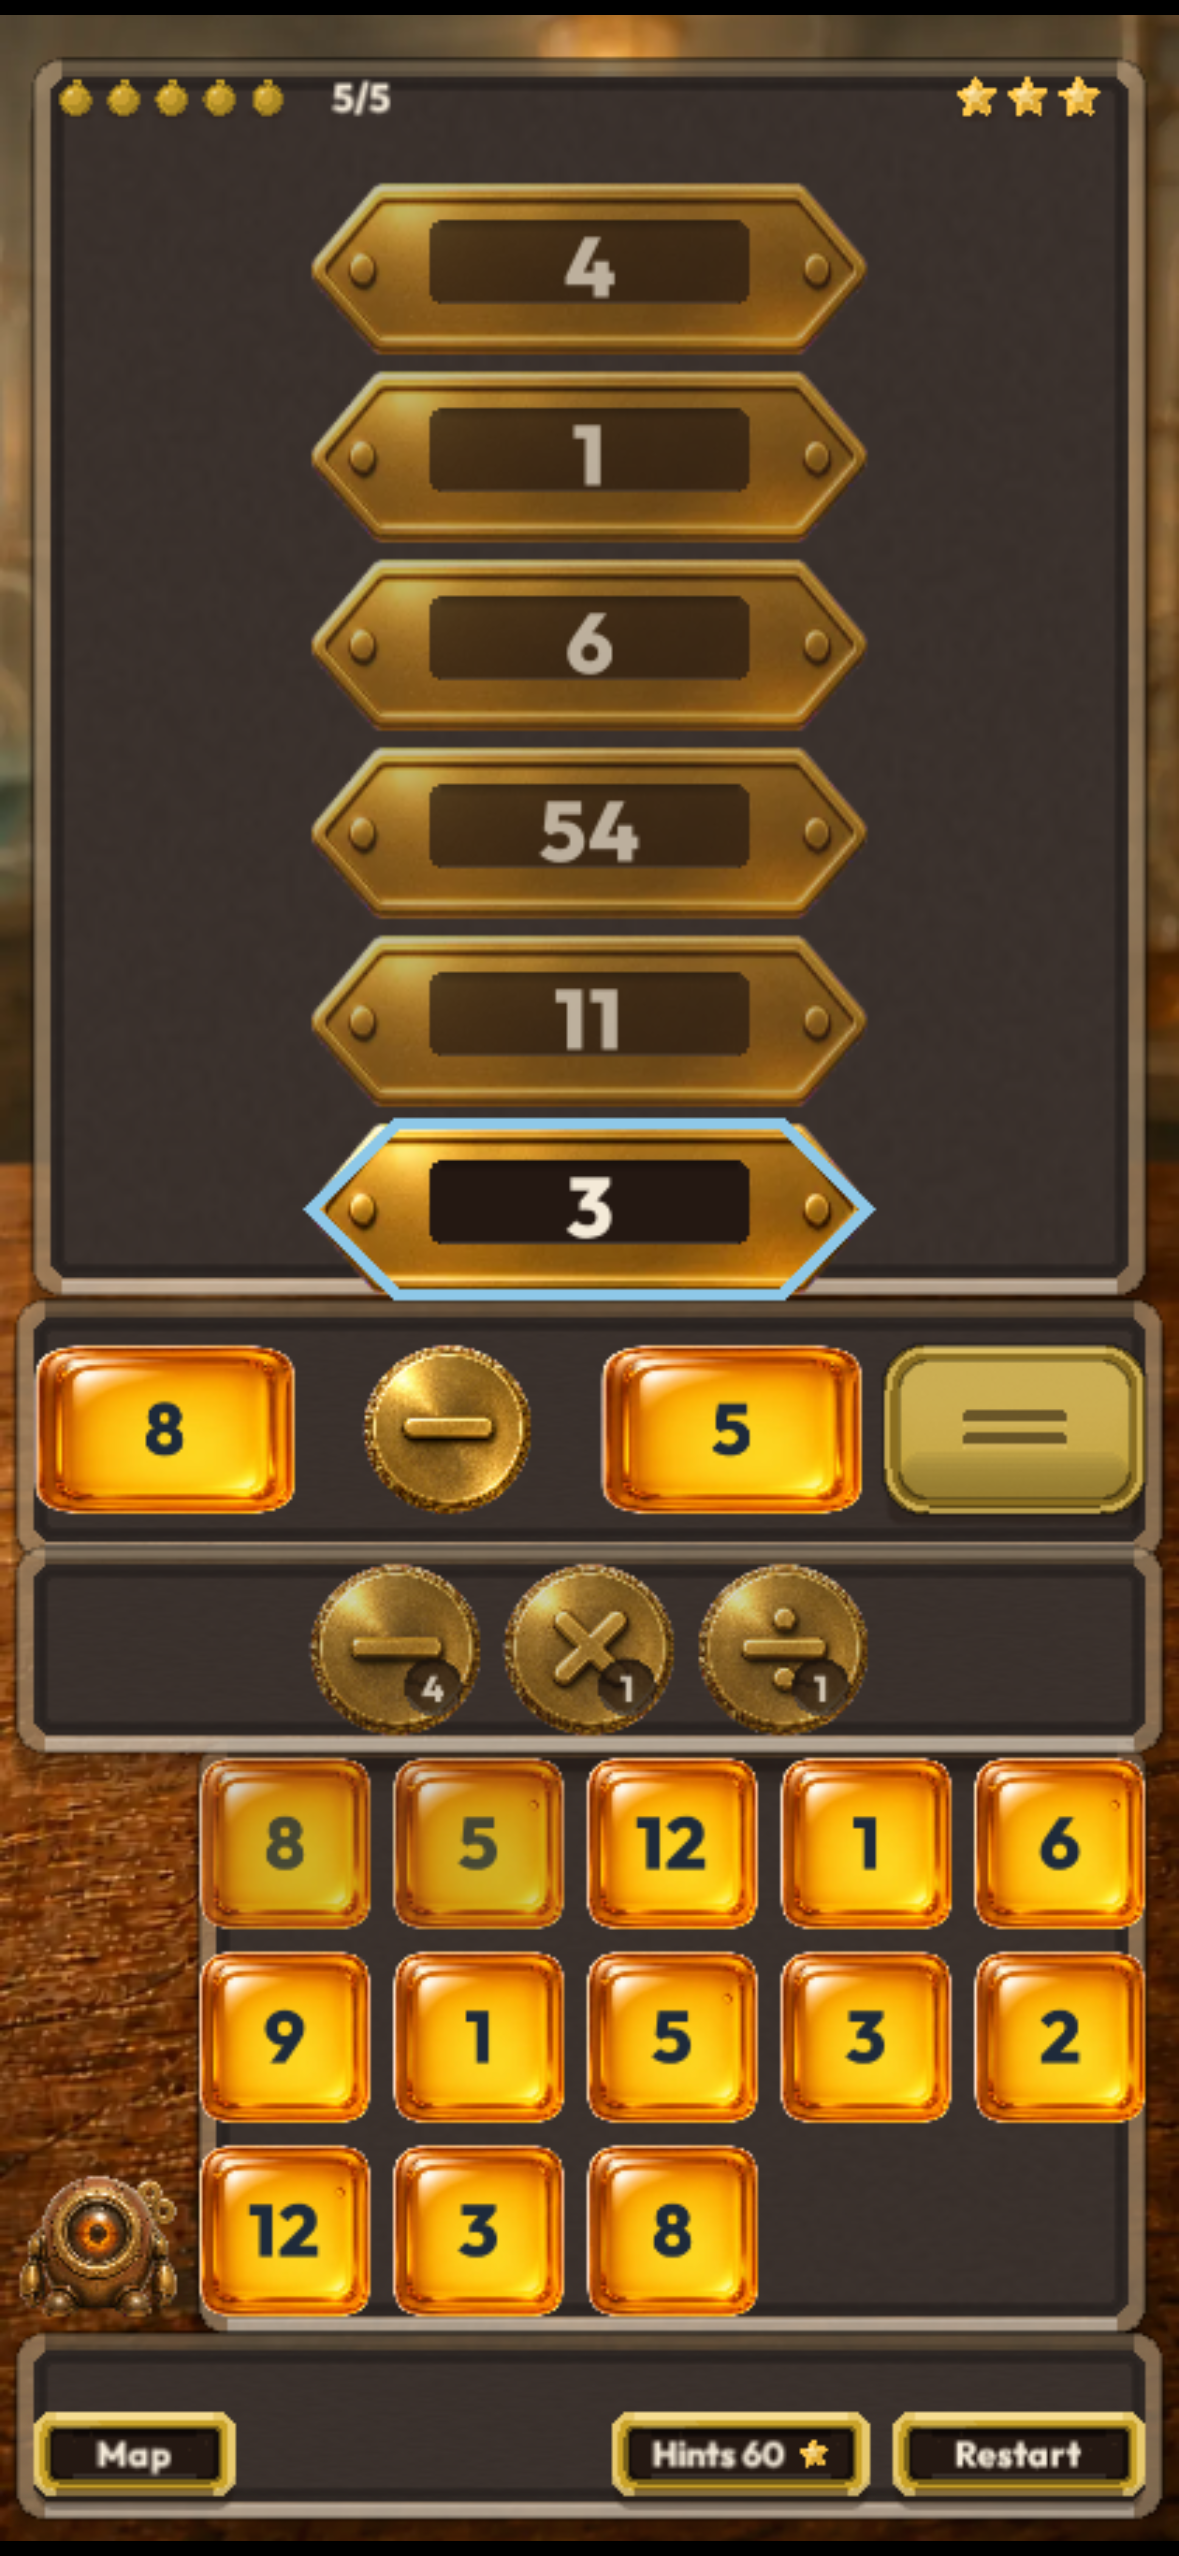
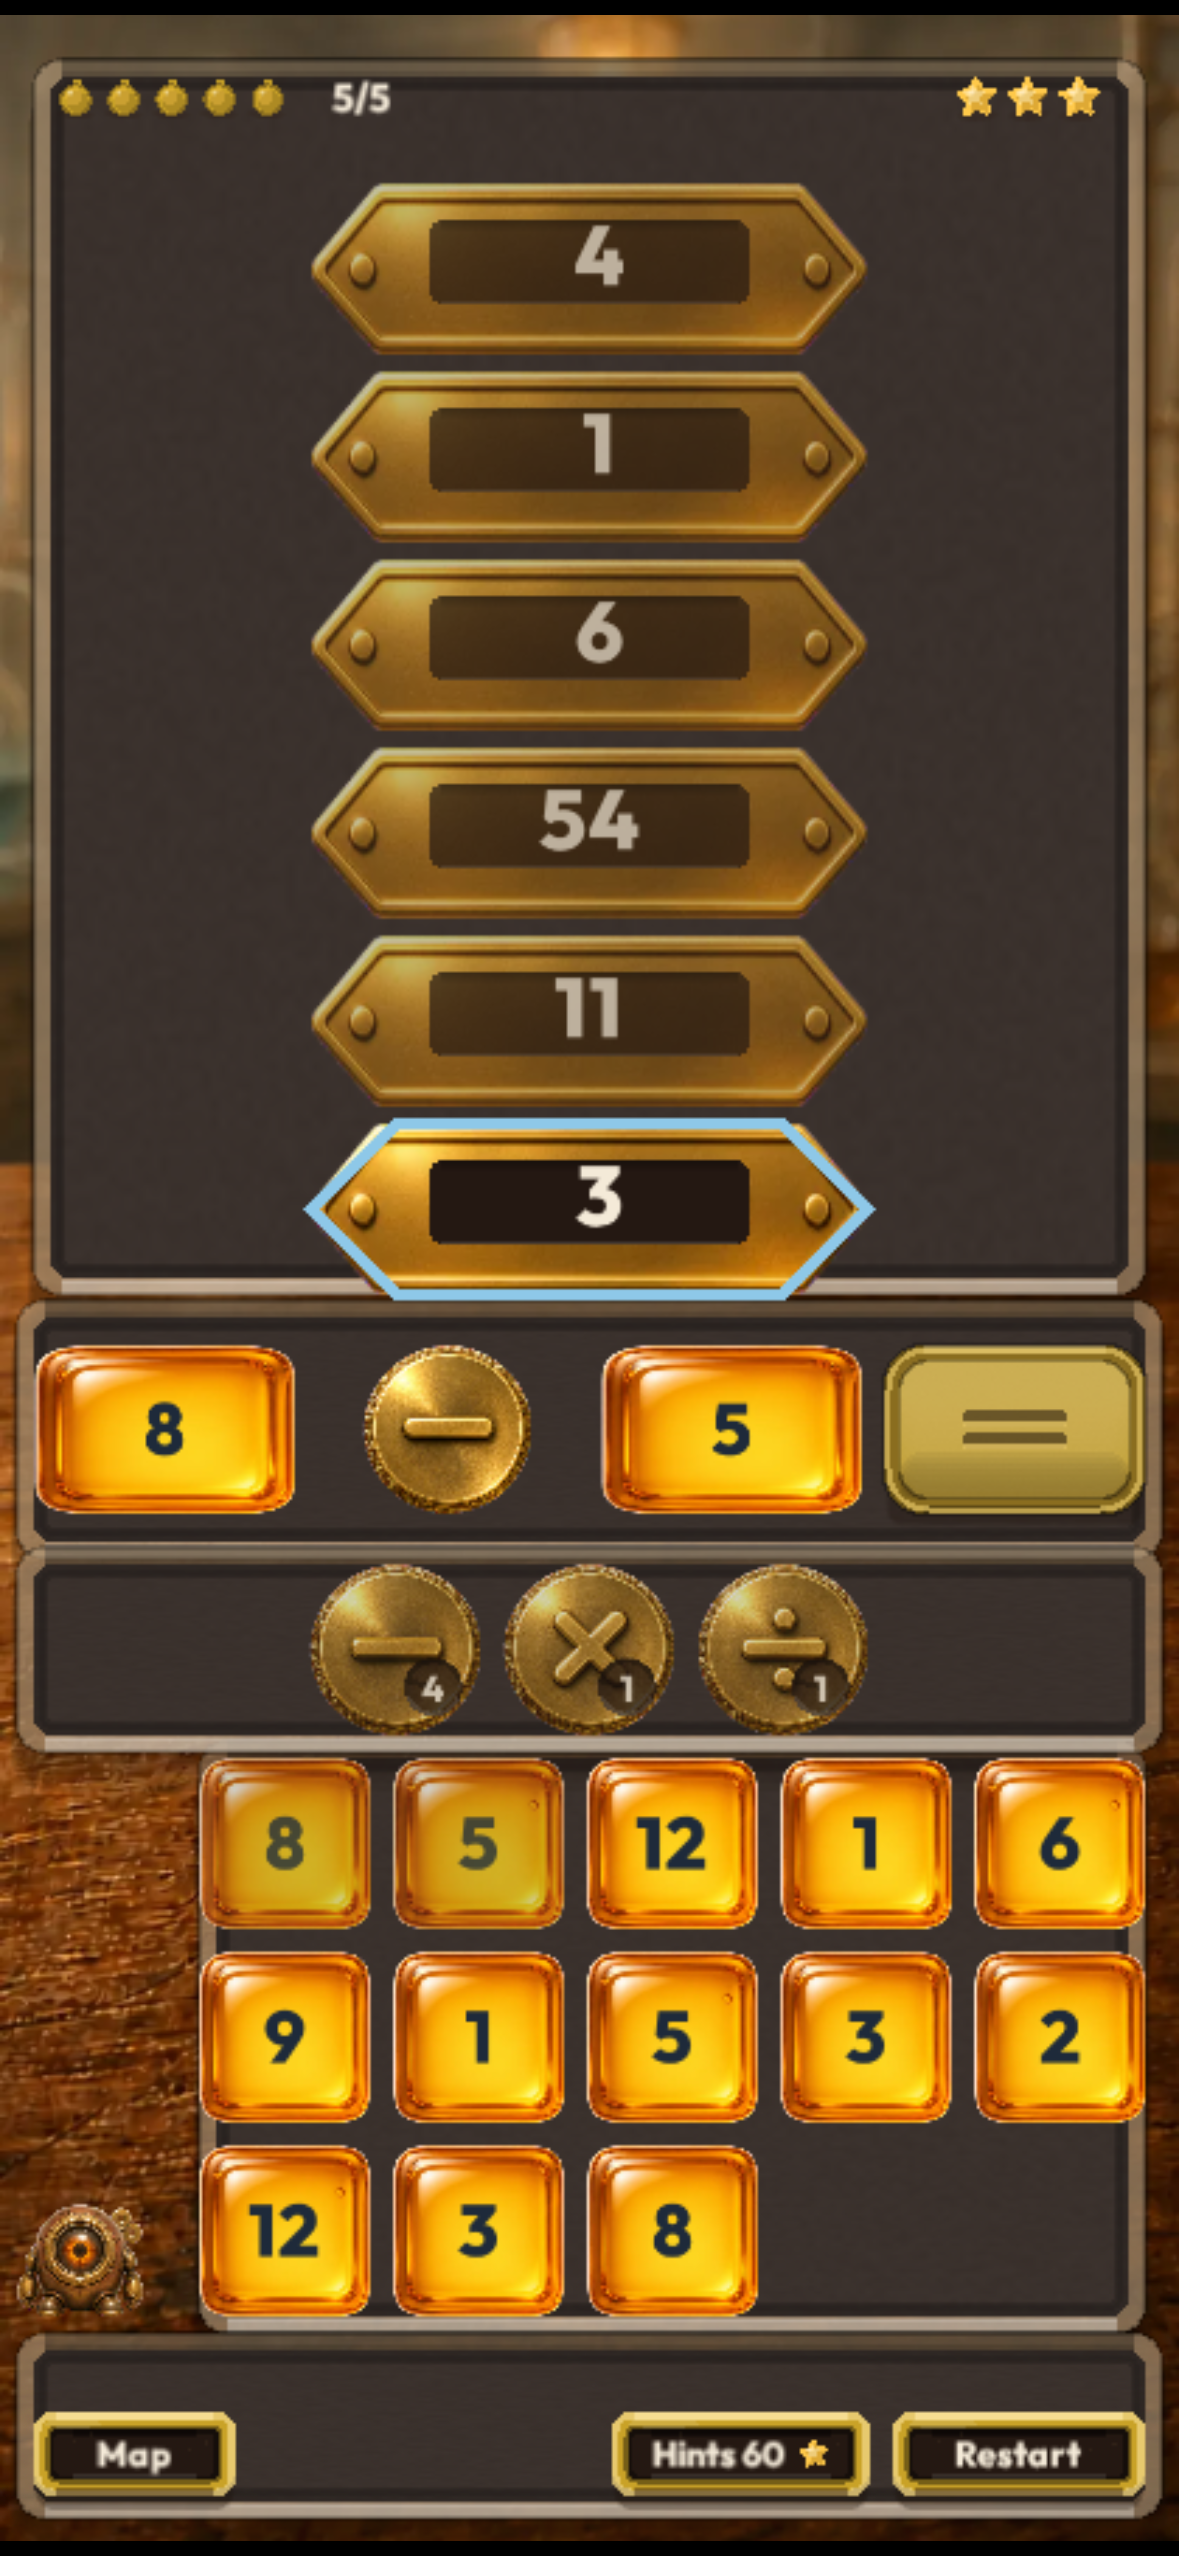
Add Scout REJECT fix review shots for phone-eye P0.
Fresh tight-gutter, OOL board/targets, and morning-pack labels. Draft only.

diff --git a/docs/review/PHONE_EYE_P0_HANDOFF.md b/docs/review/PHONE_EYE_P0_HANDOFF.md
@@ -45,3 +45,10 @@ https://github.com/nadavw9/lane-math/pull/5 (draft)
 - [ ] OOL face is brand-scale, not postage  
 
 PR: https://github.com/nadavw9/lane-math/pull/5
+
+## Scout REJECT → fix (2026-09-05 ~02:05 Athens)
+Scout rejected first draft for incomplete PE-01/PE-02 on dense + OOL.
+Follow-up commits on same PR branch: deskRepairSize + AUTOMATON_DESK=110, GUTTER_CLEARANCE=20, plaque well optical seating.
+PE-03 remains PARKED.
+Evidence: docs/review/06-tight-gutter.png, 05-ool.png, 05-ool-board.png, 05-ool-targets.png + morning-pack copies.
+DRAFT ONLY — never merge.
